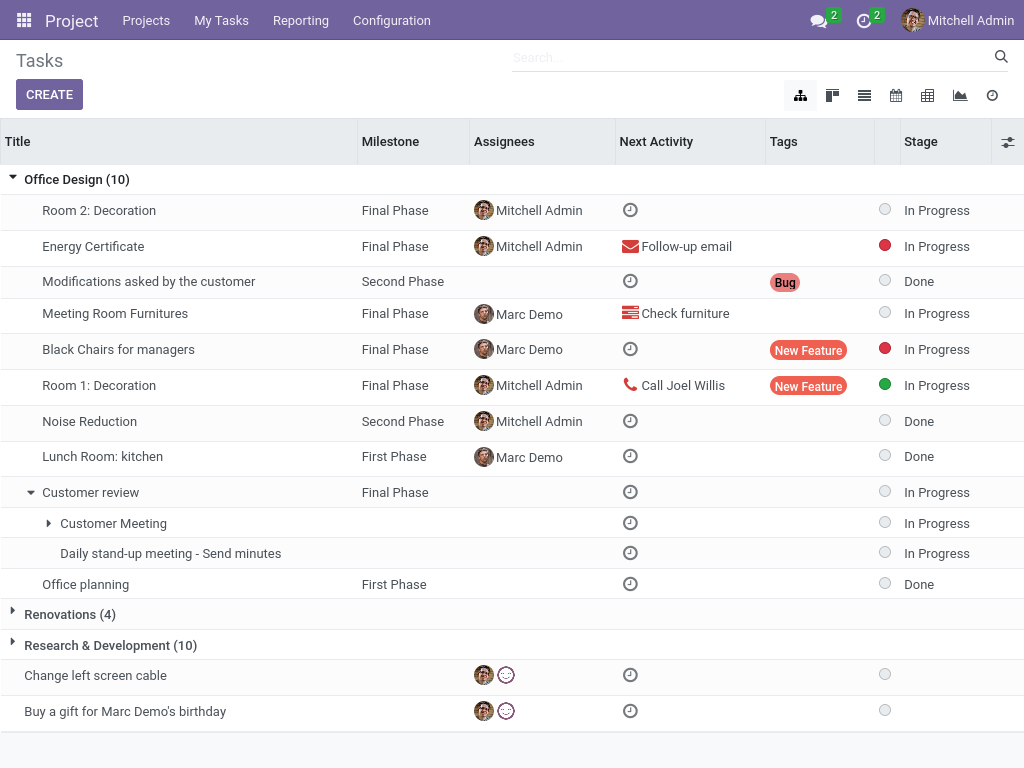
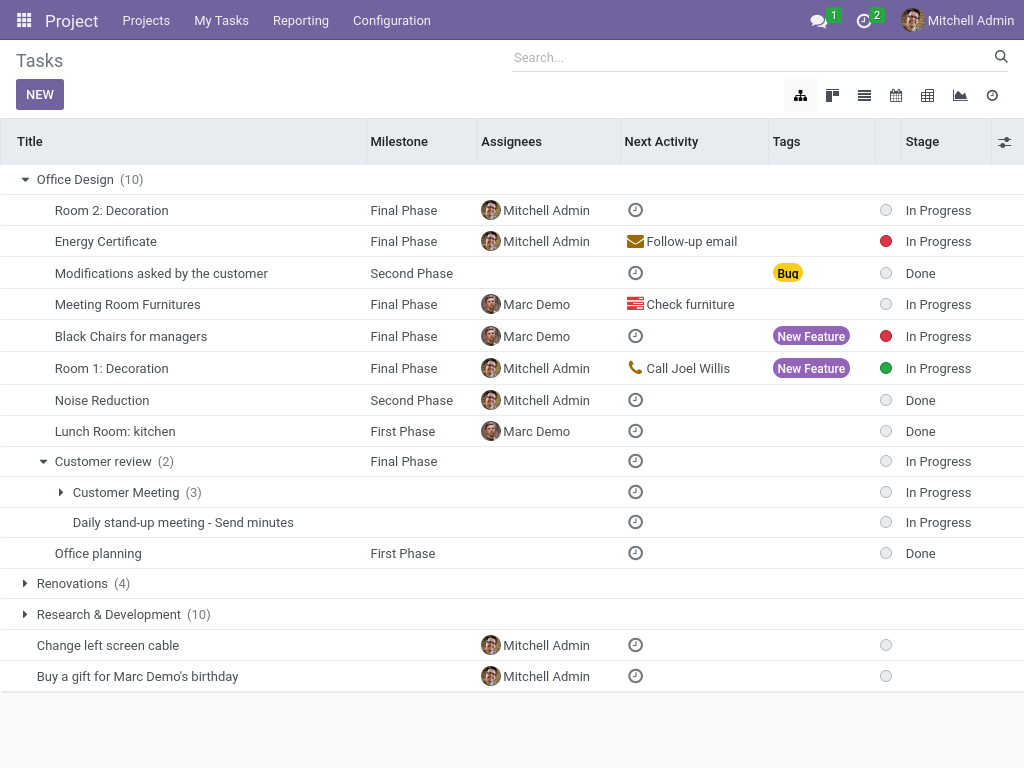
[IMP] update documentation

diff --git a/web_view_rtree/static/description/index.html b/web_view_rtree/static/description/index.html
@@ -3,18 +3,18 @@
 <html xmlns="http://www.w3.org/1999/xhtml" xml:lang="en" lang="en">
 <head>
 <meta http-equiv="Content-Type" content="text/html; charset=utf-8" />
-<meta name="generator" content="Docutils: http://docutils.sourceforge.net/" />
+<meta name="generator" content="Docutils: https://docutils.sourceforge.io/" />
 <title>RTree View</title>
 <style type="text/css">
 
 /*
 :Author: David Goodger ([email redacted])
-:Id: $Id: html4css1.css 7952 2016-07-26 18:15:59Z milde $
+:Id: $Id: html4css1.css 8954 2022-01-20 10:10:25Z milde $
 :Copyright: This stylesheet has been placed in the public domain.
 
 Default cascading style sheet for the HTML output of Docutils.
 
-See http://docutils.sf.net/docs/howto/html-stylesheets.html for how to
+See https://docutils.sourceforge.io/docs/howto/html-stylesheets.html for how to
 customize this style sheet.
 */
 
@@ -367,9 +367,9 @@ ul.auto-toc {
 !! This file is generated by oca-gen-addon-readme !!
 !! changes will be overwritten.                   !!
 !!!!!!!!!!!!!!!!!!!!!!!!!!!!!!!!!!!!!!!!!!!!!!!!!!!!
-!! source digest: sha256:e0bebe39d7e7b8516ac136a26958db0502ec17f100a89f9014592c2b0928092c
+!! source digest: sha256:2e01c39affd7626013fa3a73745f5224f061c9524015590a20399abddfb9bec9
 !!!!!!!!!!!!!!!!!!!!!!!!!!!!!!!!!!!!!!!!!!!!!!!!!!!! -->
-<p><a class="reference external" href="https://odoo-community.org/page/development-status"><img alt="Alpha" src="https://img.shields.io/badge/maturity-Alpha-red.png" /></a> <a class="reference external" href="http://www.gnu.org/licenses/agpl-3.0-standalone.html"><img alt="License: AGPL-3" src="https://img.shields.io/badge/licence-AGPL--3-blue.png" /></a> <a class="reference external" href="https://github.com/OCA/web/tree/16.0/web_view_rtree"><img alt="OCA/web" src="https://img.shields.io/badge/github-OCA%2Fweb-lightgray.png?logo=github" /></a> <a class="reference external" href="https://translation.odoo-community.org/projects/web-16-0/web-16-0-web_view_rtree"><img alt="Translate me on Weblate" src="https://img.shields.io/badge/weblate-Translate%20me-F47D42.png" /></a> <a class="reference external" href="https://runboat.odoo-community.org/builds?repo=OCA/web&amp;target_branch=16.0"><img alt="Try me on Runboat" src="https://img.shields.io/badge/runboat-Try%20me-875A7B.png" /></a></p>
+<p><a class="reference external image-reference" href="https://odoo-community.org/page/development-status"><img alt="Alpha" src="https://img.shields.io/badge/maturity-Alpha-red.png" /></a> <a class="reference external image-reference" href="http://www.gnu.org/licenses/agpl-3.0-standalone.html"><img alt="License: AGPL-3" src="https://img.shields.io/badge/licence-AGPL--3-blue.png" /></a> <a class="reference external image-reference" href="https://github.com/OCA/web/tree/16.0/web_view_rtree"><img alt="OCA/web" src="https://img.shields.io/badge/github-OCA%2Fweb-lightgray.png?logo=github" /></a> <a class="reference external image-reference" href="https://translation.odoo-community.org/projects/web-16-0/web-16-0-web_view_rtree"><img alt="Translate me on Weblate" src="https://img.shields.io/badge/weblate-Translate%20me-F47D42.png" /></a> <a class="reference external image-reference" href="https://runboat.odoo-community.org/builds?repo=OCA/web&amp;target_branch=16.0"><img alt="Try me on Runboat" src="https://img.shields.io/badge/runboat-Try%20me-875A7B.png" /></a></p>
 <p>This module defines a new rtree view type. RTree stands for “real tree” or
 “recursive tree”. It allows to display recursive and hierarchical data
 structures.</p>
@@ -385,20 +385,24 @@ Only for development or testing purpose, do not use in production.
 <p><strong>Table of contents</strong></p>
 <div class="contents local topic" id="contents">
 <ul class="simple">
-<li><a class="reference internal" href="#usage" id="id1">Usage</a></li>
-<li><a class="reference internal" href="#known-issues-roadmap" id="id2">Known issues / Roadmap</a></li>
-<li><a class="reference internal" href="#bug-tracker" id="id3">Bug Tracker</a></li>
-<li><a class="reference internal" href="#credits" id="id4">Credits</a><ul>
-<li><a class="reference internal" href="#authors" id="id5">Authors</a></li>
-<li><a class="reference internal" href="#contributors" id="id6">Contributors</a></li>
-<li><a class="reference internal" href="#other-credits" id="id7">Other credits</a></li>
-<li><a class="reference internal" href="#maintainers" id="id8">Maintainers</a></li>
+<li><a class="reference internal" href="#usage" id="toc-entry-1">Usage</a><ul>
+<li><a class="reference internal" href="#filtering" id="toc-entry-2">Filtering</a></li>
+<li><a class="reference internal" href="#using-secondary-model-fields" id="toc-entry-3">Using secondary model fields</a></li>
+</ul>
+</li>
+<li><a class="reference internal" href="#known-issues-roadmap" id="toc-entry-4">Known issues / Roadmap</a></li>
+<li><a class="reference internal" href="#bug-tracker" id="toc-entry-5">Bug Tracker</a></li>
+<li><a class="reference internal" href="#credits" id="toc-entry-6">Credits</a><ul>
+<li><a class="reference internal" href="#authors" id="toc-entry-7">Authors</a></li>
+<li><a class="reference internal" href="#contributors" id="toc-entry-8">Contributors</a></li>
+<li><a class="reference internal" href="#other-credits" id="toc-entry-9">Other credits</a></li>
+<li><a class="reference internal" href="#maintainers" id="toc-entry-10">Maintainers</a></li>
 </ul>
 </li>
 </ul>
 </div>
 <div class="section" id="usage">
-<h1><a class="toc-backref" href="#id1">Usage</a></h1>
+<h1><a class="toc-backref" href="#toc-entry-1">Usage</a></h1>
 <p>To use the rtree view on a model, a view of that type must be defined for that
 model. It is defined in the same way as a normal list (tree) view, but using
 an <tt class="docutils literal">&lt;rtree&gt;</tt> element instead of <tt class="docutils literal">&lt;tree&gt;</tt> and with additional <tt class="docutils literal">&lt;parent&gt;</tt>
@@ -426,48 +430,67 @@ relationship has the <tt class="docutils literal">expand</tt> boolean set to tru
 this means that project groups will be expanded automatically, but tasks with
 sub-tasks will not.</p>
 <pre class="code XML literal-block">
-<span class="nt">&lt;record</span> <span class="na">id=</span><span class="s">&quot;project_task_view_rtree&quot;</span> <span class="na">model=</span><span class="s">&quot;ir.ui.view&quot;</span><span class="nt">&gt;</span>
-    <span class="nt">&lt;field</span> <span class="na">name=</span><span class="s">&quot;name&quot;</span><span class="nt">&gt;</span>An rtree view for tasks<span class="nt">&lt;/field&gt;</span>
-    <span class="nt">&lt;field</span> <span class="na">name=</span><span class="s">&quot;model&quot;</span><span class="nt">&gt;</span>project.task<span class="nt">&lt;/field&gt;</span>
-    <span class="nt">&lt;field</span> <span class="na">name=</span><span class="s">&quot;arch&quot;</span> <span class="na">type=</span><span class="s">&quot;xml&quot;</span><span class="nt">&gt;</span>
-        <span class="nt">&lt;rtree&gt;</span>
-            <span class="nt">&lt;parent</span>
-                <span class="na">parent=</span><span class="s">&quot;project.project&quot;</span>
-                <span class="na">child=</span><span class="s">&quot;project.task&quot;</span>
-                <span class="na">field=</span><span class="s">&quot;project_id&quot;</span>
-                <span class="na">domain=</span><span class="s">&quot;[('parent_id', '=', False)]&quot;</span>
-                <span class="na">expand=</span><span class="s">&quot;true&quot;</span>
-            <span class="nt">/&gt;</span>
-            <span class="nt">&lt;parent</span>
-                <span class="na">parent=</span><span class="s">&quot;project.task&quot;</span>
-                <span class="na">child=</span><span class="s">&quot;project.task&quot;</span>
-                <span class="na">field=</span><span class="s">&quot;parent_id&quot;</span>
-            <span class="nt">/&gt;</span>
+<span class="nt">&lt;record</span><span class="w"> </span><span class="na">id=</span><span class="s">&quot;project_task_view_rtree&quot;</span><span class="w"> </span><span class="na">model=</span><span class="s">&quot;ir.ui.view&quot;</span><span class="nt">&gt;</span><span class="w">
+    </span><span class="nt">&lt;field</span><span class="w"> </span><span class="na">name=</span><span class="s">&quot;name&quot;</span><span class="nt">&gt;</span>An<span class="w"> </span>rtree<span class="w"> </span>view<span class="w"> </span>for<span class="w"> </span>tasks<span class="nt">&lt;/field&gt;</span><span class="w">
+    </span><span class="nt">&lt;field</span><span class="w"> </span><span class="na">name=</span><span class="s">&quot;model&quot;</span><span class="nt">&gt;</span>project.task<span class="nt">&lt;/field&gt;</span><span class="w">
+    </span><span class="nt">&lt;field</span><span class="w"> </span><span class="na">name=</span><span class="s">&quot;arch&quot;</span><span class="w"> </span><span class="na">type=</span><span class="s">&quot;xml&quot;</span><span class="nt">&gt;</span><span class="w">
+        </span><span class="nt">&lt;rtree&gt;</span><span class="w">
+            </span><span class="nt">&lt;parent</span><span class="w">
+                </span><span class="na">parent=</span><span class="s">&quot;project.project&quot;</span><span class="w">
+                </span><span class="na">child=</span><span class="s">&quot;project.task&quot;</span><span class="w">
+                </span><span class="na">field=</span><span class="s">&quot;project_id&quot;</span><span class="w">
+                </span><span class="na">domain=</span><span class="s">&quot;[('parent_id', '=', False)]&quot;</span><span class="w">
+                </span><span class="na">expand=</span><span class="s">&quot;true&quot;</span><span class="w">
+            </span><span class="nt">/&gt;</span><span class="w">
+            </span><span class="nt">&lt;parent</span><span class="w">
+                </span><span class="na">parent=</span><span class="s">&quot;project.task&quot;</span><span class="w">
+                </span><span class="na">child=</span><span class="s">&quot;project.task&quot;</span><span class="w">
+                </span><span class="na">field=</span><span class="s">&quot;parent_id&quot;</span><span class="w">
+            </span><span class="nt">/&gt;</span><span class="w">
 
-            <span class="nt">&lt;field</span> <span class="na">name=</span><span class="s">&quot;name&quot;</span> <span class="nt">/&gt;</span>
-            <span class="nt">&lt;field</span> <span class="na">name=</span><span class="s">&quot;milestone_id&quot;</span> <span class="nt">/&gt;</span>
-            <span class="c">&lt;!-- add more fields --&gt;</span>
-        <span class="nt">&lt;/rtree&gt;</span>
-    <span class="nt">&lt;/field&gt;</span>
-<span class="nt">&lt;/record&gt;</span>
+            </span><span class="nt">&lt;field</span><span class="w"> </span><span class="na">name=</span><span class="s">&quot;name&quot;</span><span class="w"> </span><span class="nt">/&gt;</span><span class="w">
+            </span><span class="nt">&lt;field</span><span class="w"> </span><span class="na">name=</span><span class="s">&quot;milestone_id&quot;</span><span class="w"> </span><span class="nt">/&gt;</span><span class="w">
+            </span><span class="cm">&lt;!-- add more fields --&gt;</span><span class="w">
+        </span><span class="nt">&lt;/rtree&gt;</span><span class="w">
+    </span><span class="nt">&lt;/field&gt;</span><span class="w">
+</span><span class="nt">&lt;/record&gt;</span>
 </pre>
 <p>To make the view available, the <tt class="docutils literal">rtree</tt> view mode must be added to the list
 of view modes (<tt class="docutils literal">view_mode</tt> field) of the window action.</p>
+<div class="section" id="filtering">
+<h2><a class="toc-backref" href="#toc-entry-2">Filtering</a></h2>
+<p>If the search view defines a search on the <tt class="docutils literal">display_name</tt> field, using it in
+the rtree view will filter all elements (of any model) on their
+<tt class="docutils literal">display_name</tt>. This uses the <tt class="docutils literal">name_search()</tt> model method.</p>
+</div>
+<div class="section" id="using-secondary-model-fields">
+<h2><a class="toc-backref" href="#toc-entry-3">Using secondary model fields</a></h2>
+<p>It is possible to use some fields of the secondary models, for example to
+allow to reorder those records with a handle widget. This is done by adding
+children <tt class="docutils literal">field</tt> elements to the corresponding <tt class="docutils literal">field</tt> element of the
+view. For example, this would allow to reorder projects as well as tasks:</p>
+<pre class="code XML literal-block">
+<span class="nt">&lt;field</span><span class="w"> </span><span class="na">name=</span><span class="s">&quot;sequence&quot;</span><span class="w"> </span><span class="na">widget=</span><span class="s">&quot;handle&quot;</span><span class="nt">&gt;</span><span class="w">
+    </span><span class="nt">&lt;field</span><span class="w"> </span><span class="na">model=</span><span class="s">&quot;project.project&quot;</span><span class="w"> </span><span class="na">name=</span><span class="s">&quot;sequence&quot;</span><span class="w"> </span><span class="nt">/&gt;</span><span class="w">
+</span><span class="nt">&lt;/field&gt;</span>
+</pre>
+</div>
 </div>
 <div class="section" id="known-issues-roadmap">
-<h1><a class="toc-backref" href="#id2">Known issues / Roadmap</a></h1>
+<h1><a class="toc-backref" href="#toc-entry-4">Known issues / Roadmap</a></h1>
 <p>Does not work currently:</p>
 <ul class="simple">
-<li>Filtering (including defining where to start in the hierarchy): the search
-domain is ignored and the full hierarchy is always shown</li>
 <li>Pagination and limiting the number of results</li>
 <li>Sorting of columns</li>
 <li>Navigating between records accessed from the view</li>
 <li>Validation of the view definition</li>
 </ul>
+<p>Filtering is only partially supported. A search domain can be used in the
+view, but it must be simple (a flat list of conditions without boolean
+operators).</p>
 </div>
 <div class="section" id="bug-tracker">
-<h1><a class="toc-backref" href="#id3">Bug Tracker</a></h1>
+<h1><a class="toc-backref" href="#toc-entry-5">Bug Tracker</a></h1>
 <p>Bugs are tracked on <a class="reference external" href="https://github.com/OCA/web/issues">GitHub Issues</a>.
 In case of trouble, please check there if your issue has already been reported.
 If you spotted it first, help us to smash it by providing a detailed and welcomed
@@ -475,15 +498,15 @@ If you spotted it first, help us to smash it by providing a detailed and welcome
 <p>Do not contact contributors directly about support or help with technical issues.</p>
 </div>
 <div class="section" id="credits">
-<h1><a class="toc-backref" href="#id4">Credits</a></h1>
+<h1><a class="toc-backref" href="#toc-entry-6">Credits</a></h1>
 <div class="section" id="authors">
-<h2><a class="toc-backref" href="#id5">Authors</a></h2>
+<h2><a class="toc-backref" href="#toc-entry-7">Authors</a></h2>
 <ul class="simple">
 <li>Coop IT Easy SC</li>
 </ul>
 </div>
 <div class="section" id="contributors">
-<h2><a class="toc-backref" href="#id6">Contributors</a></h2>
+<h2><a class="toc-backref" href="#toc-entry-8">Contributors</a></h2>
 <ul class="simple">
 <li><a class="reference external" href="https://coopiteasy.be">Coop IT Easy SC</a>:<ul>
 <li>hugues de keyzer</li>
@@ -492,11 +515,11 @@ If you spotted it first, help us to smash it by providing a detailed and welcome
 </ul>
 </div>
 <div class="section" id="other-credits">
-<h2><a class="toc-backref" href="#id7">Other credits</a></h2>
+<h2><a class="toc-backref" href="#toc-entry-9">Other credits</a></h2>
 <p>The development of this module has been funded by <a class="reference external" href="https://www.imio.be/">iMio sc</a>.</p>
 </div>
 <div class="section" id="maintainers">
-<h2><a class="toc-backref" href="#id8">Maintainers</a></h2>
+<h2><a class="toc-backref" href="#toc-entry-10">Maintainers</a></h2>
 <p>This module is maintained by the OCA.</p>
 <a class="reference external image-reference" href="https://odoo-community.org"><img alt="Odoo Community Association" src="https://odoo-community.org/logo.png" /></a>
 <p>OCA, or the Odoo Community Association, is a nonprofit organization whose

diff --git a/web_view_rtree/static/src/views/rtree/rtree_model.esm.js b/web_view_rtree/static/src/views/rtree/rtree_model.esm.js
@@ -14,11 +14,14 @@ import {WarningDialog} from "@web/core/errors/error_dialogs";
 // using webSearchRead() and creates a Record object for each.
 //
 // In the rtree view, groups and records can appear at any level and records
-// can have children. The distinction is that what is called group here is not
-// a record of the base model (and has only an id and a name), while a record
-// is (and has thus all the fields displayed in the view). Because of this,
-// only 2 classes are used: DynamicRTreeRecordList and RTreeRecord, which
-// handle all the cases.
+// can have children. The distinction is that what is called a group here is
+// actually a record of a secondary model, as opposed to those of the base or
+// primary model that are called records. Because of this, only 2 classes are
+// used: DynamicRTreeRecordList and RTreeRecord, which handle all the cases.
+//
+// A record has thus all the fields displayed in the view, while a group has
+// by default only an id and a display_name, but other fields can also be
+// used.
 //
 // What data is loaded (and how it is loaded) when opening a parent (a group
 // or a record) to display its children (or when displaying the root) depends
@@ -45,18 +48,9 @@ import {WarningDialog} from "@web/core/errors/error_dialogs";
 //
 // The isRecord property controls how the RTreeRecord will be displayed: if it
 // is true, it will appear as a record row with all its field values in the
-// columns; if it is false, it will appear as a group spanning all columns
-// with only its name and the number of its children.
-//
-// Why display empty groups? It would be logical to think that empty groups
-// could be ignored. It would indeed make sense to not display them because
-// they do not show other data than their own name and are thus not that
-// useful. However, they are shown for a simple reason: with the way the data
-// is loaded, it is not possible to detect that children are empty groups. A
-// parent could contain only empty groups. In that case, it would be possible
-// to unfold it, but it would show no children, which would be confusing.
-// Also, the number of children is displayed after the group name. If empty
-// groups are not shown, the count could be wrong.
+// columns; if it is false, it will appear as a row with only its display_name
+// and possibly some other values depending on which fields are defined in the
+// secondary model field mapping.
 
 // This class is used for groups as well as for records.
 class RTreeRecord extends Record {

diff --git a/web_view_rtree/README.rst b/web_view_rtree/README.rst
@@ -7,7 +7,7 @@ RTree View
    !! This file is generated by oca-gen-addon-readme !!
    !! changes will be overwritten.                   !!
    !!!!!!!!!!!!!!!!!!!!!!!!!!!!!!!!!!!!!!!!!!!!!!!!!!!!
-   !! source digest: sha256:e0bebe39d7e7b8516ac136a26958db0502ec17f100a89f9014592c2b0928092c
+   !! source digest: sha256:2e01c39affd7626013fa3a73745f5224f061c9524015590a20399abddfb9bec9
    !!!!!!!!!!!!!!!!!!!!!!!!!!!!!!!!!!!!!!!!!!!!!!!!!!!!
 
 .. |badge1| image:: https://img.shields.io/badge/maturity-Alpha-red.png
@@ -108,17 +108,40 @@ sub-tasks will not.
 To make the view available, the ``rtree`` view mode must be added to the list
 of view modes (``view_mode`` field) of the window action.
 
+Filtering
+~~~~~~~~~
+
+If the search view defines a search on the ``display_name`` field, using it in
+the rtree view will filter all elements (of any model) on their
+``display_name``. This uses the ``name_search()`` model method.
+
+Using secondary model fields
+~~~~~~~~~~~~~~~~~~~~~~~~~~~~
+
+It is possible to use some fields of the secondary models, for example to
+allow to reorder those records with a handle widget. This is done by adding
+children ``field`` elements to the corresponding ``field`` element of the
+view. For example, this would allow to reorder projects as well as tasks:
+
+.. code-block:: XML
+
+    <field name="sequence" widget="handle">
+        <field model="project.project" name="sequence" />
+    </field>
+
 Known issues / Roadmap
 ======================
 
 Does not work currently:
 
-* Filtering (including defining where to start in the hierarchy): the search
-  domain is ignored and the full hierarchy is always shown
 * Pagination and limiting the number of results
 * Sorting of columns
 * Navigating between records accessed from the view
 * Validation of the view definition
+
+Filtering is only partially supported. A search domain can be used in the
+view, but it must be simple (a flat list of conditions without boolean
+operators).
 
 Bug Tracker
 ===========

diff --git a/web_view_rtree/readme/USAGE.rst b/web_view_rtree/readme/USAGE.rst
@@ -57,3 +57,24 @@ sub-tasks will not.
 
 To make the view available, the ``rtree`` view mode must be added to the list
 of view modes (``view_mode`` field) of the window action.
+
+Filtering
+~~~~~~~~~
+
+If the search view defines a search on the ``display_name`` field, using it in
+the rtree view will filter all elements (of any model) on their
+``display_name``. This uses the ``name_search()`` model method.
+
+Using secondary model fields
+~~~~~~~~~~~~~~~~~~~~~~~~~~~~
+
+It is possible to use some fields of the secondary models, for example to
+allow to reorder those records with a handle widget. This is done by adding
+children ``field`` elements to the corresponding ``field`` element of the
+view. For example, this would allow to reorder projects as well as tasks:
+
+.. code-block:: XML
+
+    <field name="sequence" widget="handle">
+        <field model="project.project" name="sequence" />
+    </field>

diff --git a/web_view_rtree/readme/ROADMAP.rst b/web_view_rtree/readme/ROADMAP.rst
@@ -1,8 +1,10 @@
 Does not work currently:
 
-* Filtering (including defining where to start in the hierarchy): the search
-  domain is ignored and the full hierarchy is always shown
 * Pagination and limiting the number of results
 * Sorting of columns
 * Navigating between records accessed from the view
 * Validation of the view definition
+
+Filtering is only partially supported. A search domain can be used in the
+view, but it must be simple (a flat list of conditions without boolean
+operators).